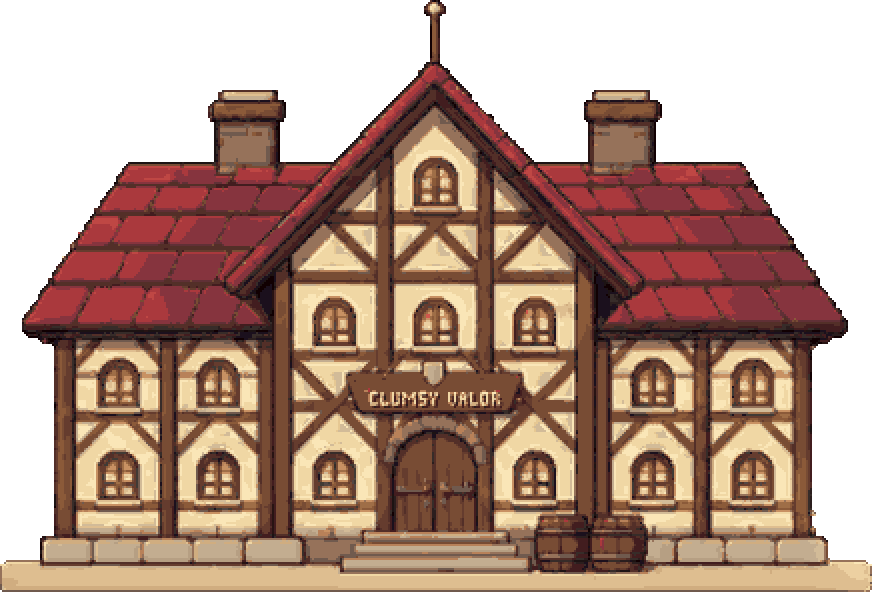
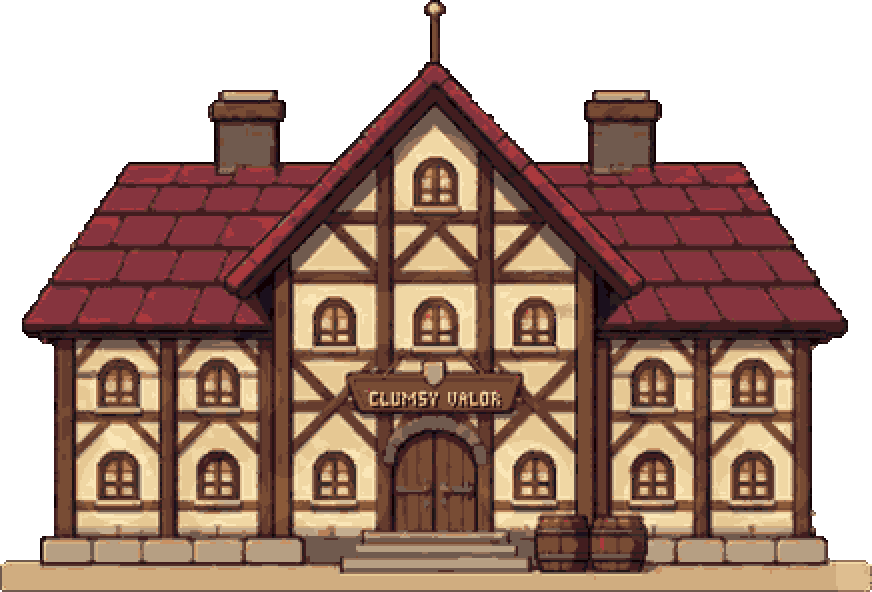
Preview: light from a hand-written solid form (hall proxy), one sun in front of the town
docs/work/town-art/LIGHT.md sets the rules; tools/light_proxy.py lights each plane as one mass (N.L), casts
eave/chimney/gable shadows through the proxy, moves colours only along their material ramp.

Claude-Session: https://claude.ai/code/session_01FzDataYedfiK9tzFLcKdoU

diff --git a/tools/light_proxy.py b/tools/light_proxy.py
@@ -1,0 +1,191 @@
+#!/usr/bin/env python3
+"""Light from structure (owner 2026-11-07: "빛 이론의 기본 구조는 큰 덩어리, 그리고 그 이후에 빛 영역에서의 세부 그림자
+표현"; the rules: docs/work/town-art/LIGHT.md). A building's solid form is written by hand (tools/proxy/<sprite>.json:
+its walls, roof planes, eaves, chimneys as planes with a depth), never guessed from the picture. Then, per look:
+  1. big masses: each plane's facing to the sun (N . L) gives the whole plane ONE light level
+  2. cast shadow: from each cell, a ray toward the sun through the proxy's depth; inside a solid on the way = shade
+     (eaves over walls, chimneys on the roof, the gable's body on the wings)
+  3. detail: the art's own small shading stays as drawn inside each mass (the whole mass moves together)
+  4. colour: the level moves each pixel along ITS material ramp (never "the nearest colour"): the ramps are cool and
+     greyer at the dark end and warm and richer at the light end (tools/town_palette2.py), so a step is a move in
+     value, hue, saturation and temperature together. Off-palette colours: none.
+Light levels (steps along the ramp, relative to the art as drawn, which is the noon look):
+  sunlit, facing the sun squarely (N.L > .55)  +1
+  sunlit, glancing                             0 (the evening's orange is the ambient's, lit.gd: not a second step)
+  shade, facing up (sees the sky)              -1
+  shade, facing front / down                   -2
+  night: -1 everywhere, then each lamp, fire, window: +1 / +2 / +3 by its light on the cell (facing it, unblocked,
+         falling off with distance)
+  python3 tools/light_proxy.py diagram g_hall OUT.png        the proxy over the sprite (planes by facing)
+  python3 tools/light_proxy.py bake g_hall [--preview OUT]   assets/town/lit/g_hall_{m,e,n}.png"""
+import json
+import os
+import sys
+import numpy as np
+from PIL import Image, ImageDraw
+
+ROOT = os.path.dirname(os.path.dirname(os.path.abspath(__file__)))
+PAL = np.array(Image.open(os.path.join(ROOT, "assets/town/palette.png")).convert("RGB"))
+PJ = json.load(open(os.path.join(ROOT, "assets/town/palette.json")))
+RAMPS = [PAL[i, :s] for i, s in enumerate(PJ["steps"])]
+INDEX = {}
+for ri, r in enumerate(RAMPS):
+    for si, c in enumerate(r): INDEX.setdefault(tuple(int(v) for v in c), (ri, si))
+
+
+def sun3(h):
+    """lit.gd sun3: toward the sun, x right, y up, z toward the viewer"""
+    day = np.clip((h % 24.0 - 5.5) / 13.5, 0.0, 1.0)
+    ang = day * np.pi
+    el = np.radians(16.0 + 46.0 * np.sin(ang))
+    hz = np.array([-np.cos(ang), 0.45 + 0.25 * np.sin(ang)]); hz /= np.linalg.norm(hz)
+    return np.array([hz[0] * np.cos(el), np.sin(el), hz[1] * np.cos(el)])
+
+
+def load_sprite(k):
+    p = os.path.join(ROOT, "assets/town/hx", k + ".png")
+    if not os.path.exists(p): p = os.path.join(ROOT, "assets/town", k + ".png")
+    a = np.array(Image.open(p).convert("RGBA"))
+    return a[0::2, 0::2].copy()
+
+
+def proxy_maps(k, shape):
+    """per cell: plane id, normal, depth z, thickness"""
+    P = json.load(open(os.path.join(ROOT, "tools/proxy", k + ".json")))
+    h, w = shape
+    pid = np.full((h, w), -1, int); N = np.zeros((h, w, 3)); Z = np.zeros((h, w)); T = np.zeros((h, w))
+    yy, xx = np.mgrid[0:h, 0:w]
+    for i, pl in enumerate(P["planes"]):
+        im = Image.new("L", (w, h), 0)
+        ImageDraw.Draw(im).polygon([tuple(p) for p in pl["poly"]], fill=255)
+        m = np.array(im) > 0
+        at = pl.get("at", [0, 0]); a = pl.get("dzdx", 0.0); b = pl.get("dzdy", 0.0)
+        z = pl["z"] + a * (xx - at[0]) + b * (yy - at[1])
+        n = np.array(pl["n"], float) if "n" in pl else np.array([-a, b, 1.0])
+        n /= np.linalg.norm(n)
+        pid[m] = i; N[m] = n; Z[m] = z[m]; T[m] = pl.get("thick", 10)
+    return P, pid, N, Z, T
+
+
+def in_sun(ys, xs, Z, T, solid, L, reach=160):
+    """march each cell's ray toward the sun through the proxy: it is in shade when it passes inside a solid"""
+    h, w = Z.shape
+    d = L / max(np.hypot(L[0], L[1]), 1e-6)            # per cell of screen travel
+    z0 = Z[ys, xs]
+    shade = np.zeros(len(ys), bool)
+    for t in range(2, reach):
+        X = np.round(xs + d[0] * t).astype(int); Y = np.round(ys - d[1] * t).astype(int)
+        ok = (X >= 0) & (X < w) & (Y >= 0) & (Y < h)
+        zr = z0 + d[2] * t
+        zs = np.full(len(ys), -1e9); th = np.zeros(len(ys)); s = np.zeros(len(ys), bool)
+        zs[ok] = Z[Y[ok], X[ok]]; th[ok] = T[Y[ok], X[ok]]; s[ok] = solid[Y[ok], X[ok]]
+        shade |= s & (zr < zs - 0.5) & (zr > zs - th)
+    return ~shade
+
+
+def levels_sun(N, Z, T, m, solid, h, evening):
+    L = sun3(h)
+    ys, xs = np.nonzero(m)
+    n = N[ys, xs]
+    ndl = n @ L
+    sun = (ndl > 0.05) & in_sun(ys, xs, Z, T, solid, L)
+    lv = np.zeros(len(ys), int)
+    lv[sun & (ndl > 0.55)] = 1
+    up = n[:, 1] > 0.45
+    lv[~sun & up] = -1
+    lv[~sun & ~up] = -2
+    out = np.zeros(m.shape, int); out[ys, xs] = lv
+    return out, sun, ys, xs, ndl
+
+
+def recolor(nat, m, lv, extra=None):
+    out = nat.copy()
+    ys, xs = np.nonzero(m)
+    miss = 0
+    for y, x in zip(ys, xs):
+        c = tuple(int(v) for v in nat[y, x, :3])
+        if c not in INDEX: miss += 1; continue
+        ri, si = INDEX[c]
+        s2 = int(np.clip(si + lv[y, x] + (0 if extra is None else extra[y, x]), 0, len(RAMPS[ri]) - 1))
+        out[y, x, :3] = RAMPS[ri][s2]
+    return out, miss
+
+
+def diagram(k, outp):
+    nat = load_sprite(k)
+    m = nat[..., 3] > 127
+    P, pid, N, Z, T = proxy_maps(k, m.shape)
+    col = np.zeros(m.shape + (3,))
+    col[:] = (N * 0.5 + 0.5)              # normal as colour: x red, y green, z blue
+    grey = nat[..., :3].mean(-1, keepdims=True) / 255.0
+    img = (0.35 * grey + 0.65 * col) * 255
+    img[~m] = (40, 46, 52)
+    big = Image.fromarray(img.astype(np.uint8)).resize((m.shape[1] * 3, m.shape[0] * 3), Image.NEAREST)
+    d = ImageDraw.Draw(big)
+    for pl in P["planes"]:
+        pts = [(p[0] * 3, p[1] * 3) for p in pl["poly"]]
+        d.line(pts + [pts[0]], fill=(255, 255, 255), width=1)
+    big.save(outp)
+
+
+def bake(k, preview=None, lights=None, box=None):
+    nat = load_sprite(k)
+    m = nat[..., 3] > 127
+    P, pid, N, Z, T = proxy_maps(k, m.shape)
+    solid = (pid >= 0) & m
+    out = {}
+    for tag, h in (("m", 8.0), ("e", 17.0)):
+        lv, _, _, _, _ = levels_sun(N, Z, T, m & (pid >= 0), solid, h, tag == "e")
+        img, miss = recolor(nat, m & (pid >= 0), lv)
+        out[tag] = img
+        print(k, tag, "off-palette cells kept as drawn:", miss)
+    if lights is not None and box is not None:
+        out["n"] = bake_night(nat, m, pid, N, Z, T, solid, lights, box)
+    for tag, img in out.items():
+        big = np.repeat(np.repeat(img, 2, 0), 2, 1)
+        Image.fromarray(big).save(os.path.join(ROOT, "assets/town/lit", f"{k}_{tag}.png"))
+    if preview:
+        row = [nat] + [out[t] for t in ("m", "e", "n") if t in out]
+        W = sum(r.shape[1] for r in row) + 8 * (len(row) - 1)
+        canvas = Image.new("RGBA", (W, nat.shape[0]), (60, 80, 90, 255))
+        x = 0
+        for r in row:
+            canvas.alpha_composite(Image.fromarray(r), (x, 0)); x += r.shape[1] + 8
+        canvas.resize((W * 2, nat.shape[0] * 2), Image.NEAREST).save(preview)
+
+
+def bake_night(nat, m, pid, N, Z, T, solid, lights, box):
+    """night: one step down everywhere (no sun), then every lamp, fire and window near it: + by its light on the cell"""
+    ys, xs = np.nonzero(m & (pid >= 0))
+    lv = np.full(m.shape, -1, int)
+    add = np.zeros(len(ys))
+    P3 = np.stack([xs.astype(float), -ys.astype(float), Z[ys, xs]], -1)
+    n = N[ys, xs]
+    for (kind, lx, ly, r, cr, cg, cb, la) in lights:
+        if kind == "soft": continue
+        cx = (lx - box[0]) / 2.0; cy = (ly - box[1]) / 2.0
+        reach = r * (0.9 if kind == "win" else 1.4) / 2.0
+        if cx < -reach or cy < -reach or cx > m.shape[1] + reach or cy > m.shape[0] + reach: continue
+        lz = 30.0 if kind in ("lamp", "fire", "bulb") else 18.0      # lamps stand in front of the walls
+        lp = np.array([cx, -cy, lz])
+        v = lp - P3; dist = np.linalg.norm(v, axis=-1); v /= np.maximum(dist[:, None], 1e-6)
+        face = np.clip((n * v).sum(-1), 0, 1)
+        if kind == "win": face = np.maximum(face, 0.6)               # a window lights its own frame and the wall round it
+        fall = np.clip(1.0 - dist / reach, 0, 1) ** 1.5
+        add += la * face * fall * (1.2 if kind == "win" else 1.6)
+    step = np.where(add > 1.1, 3, np.where(add > 0.55, 2, np.where(add > 0.18, 1, 0)))
+    lv[ys, xs] += step
+    img, miss = recolor(nat, m & (pid >= 0), lv)
+    return img
+
+
+if __name__ == "__main__":
+    cmd, k = sys.argv[1], sys.argv[2]
+    if cmd == "diagram": diagram(k, sys.argv[3])
+    elif cmd == "bake":
+        pv = sys.argv[sys.argv.index("--preview") + 1] if "--preview" in sys.argv else None
+        L = json.load(open(os.path.join(ROOT, "docs/work/town-art/light_layout.json")))
+        box = None
+        for b in L["bld"] + [L["hall"]]:
+            if b[0] == k: box = (b[1], b[2])
+        bake(k, pv, L["lights"], box)

diff --git a/docs/work/town-art/LIGHT.md b/docs/work/town-art/LIGHT.md
@@ -1,0 +1,50 @@
+# 마을 빛과 그림자 기준
+
+오너 지시(2026-11-07): "빛 이론의 기본 구조는 큰 덩어리, 그리고 그 이후에 빛 영역에서의 세부 그림자 표현이야. 빛과 그림자 이론과 각종 레퍼런스를 철저히 참고하여서, 시간과 해의 기울기, 주변 물건에 의한 그림자, 광원, 불이나 가로등 용광로등의 조명에 의한 것 등등등을 비단 명도 뿐 아니라 색채와 채도, 난색과 한색까지 고려하여 그려 넣을것."
+
+## 1. 해는 하나
+
+- 모든 빛 계산(구운 스프라이트, 실시간 그림자, 바닥, 캐릭터 림라이트)이 `lit.gd sun3(h)` 하나를 쓴다.
+- 해는 왼쪽에서 떠서 오른쪽으로 진다. 늘 화면 쪽(보는 사람 쪽)으로 조금 나와 있어서 건물 정면이 빛을 받는다.
+- 높이: 해 뜰 때와 질 때는 낮게(16°), 정오에는 높게(62°).
+
+## 2. 순서: 큰 덩어리 → 그림자 → 세부
+
+1. 큰 덩어리(면의 방향)
+   - 건물마다 입체 뼈대를 손으로 적는다: 벽, 지붕면, 처마, 굴뚝, 기단. 뼈대 파일은 `tools/proxy/<건물>.json`.
+   - 한 면은 한 덩어리다. 면이 해를 보는 각도(N·L)로 그 면 전체의 밝기 단계를 정한다.
+   - 면 안에서 칸마다 밝기를 바꾸지 않는다.
+2. 투영 그림자
+   - 처마·굴뚝·앞으로 나온 몸체가 해를 가리는 곳에만 진다.
+   - 뼈대의 깊이로 해 쪽을 향해 광선을 따라가며 가려지는지 판정한다.
+   - 그림자 경계는 2px 격자에서 딱 끊는다.
+3. 세부
+   - 빛 영역 안에서만 원래 그림의 작은 명암(창틀, 목재 홈, 기와 줄)을 살린다.
+   - 그림자 영역의 세부는 한 단계 눌러서 큰 덩어리를 깨지 않게 한다.
+
+## 3. 색: 명도만이 아니라 색상·채도·온도
+
+- 빛과 그림자 모두 같은 재질 램프 안에서 밝기 순서대로만 옮긴다. "가장 비슷한 색"으로 옮기는 것은 금지한다.
+  - 램프 자체가 어두운 쪽은 차갑게(파랑·보라 쪽), 밝은 쪽은 따뜻하게(노랑 쪽) 돌아가 있다. 그래서 단계를 옮기면 명도, 색상, 온도가 함께 움직인다.
+- 해가 드는 면: 따뜻하고 진하게. 해가 낮을수록(아침·저녁) 더 따뜻하다.
+- 그늘: 하늘빛만 받는다. 차갑고 채도가 낮다.
+  - 위를 향한 그늘(지붕)은 하늘을 더 많이 봐서 덜 어둡다.
+  - 아래를 향한 그늘(처마 밑)이 가장 어둡다.
+- 불·가로등·용광로·창문: 따뜻하고 진한 빛이다. 거리에 따라 줄고, 광원을 향한 면만 밝힌다. 밤에는 이 빛만 남는다.
+- 실시간 그림자도 검정을 곱하지 않는다. 맵 스프라이트는 램프 단계 이동으로, 캐릭터는 하늘색을 곱해서 표현한다.
+
+## 4. 검사
+
+- 팔레트 밖 색은 0개.
+- 빛 계산은 칸 하나에 한 번만 한다.
+- 같은 면은 같은 단계를 쓴다(큰 덩어리 유지).
+- 기존 건물·캐릭터 옆에 놓고 직접 비교한다. 자동 검사 통과가 그림 승인을 뜻하지는 않는다.
+
+## 레퍼런스
+
+- [MGD EP14 AI 아트 색 맞추는 법](https://www.youtube.com/watch?v=m3d_QXPKM4A): 재질 램프, 같은 램프 안에서 밝기 순서로 옮기기, 팔레트 밖 0개.
+- [MGD Dev Log 6 2D 아트 명암](https://www.youtube.com/watch?v=VN4Ci4a2Neg): 면 방향(노멀)으로 빛 계산. 칸당 한 번, 원래 색 안에서만 고르기.
+- [The Beauty of Moonfrost](https://medium.com/@moonfrost/the-beauty-of-moonfrost-ab8155f235f1): 입체 지형에 도트 셰이더를 써서 조명이 흐리지 않고 손으로 찍은 느낌이 나게 했다.
+- [Building shadows: A Lighting and Shading Tutorial](https://tips.clip-studio.com/en-us/articles/3002): 광원 먼저 정하기, 핵심 그림자 → 그림자 색 → 투영 그림자 → 하늘빛 → 직사광 순서. 따뜻한 해 아래 그림자는 차갑고 탁한 파랑.
+- [4 things we did to add light and depth to our pixel art game](https://itch.io/devlog/192949/4-things-we-did-to-add-light-and-depth-to-our-pixel-art-game.amp): 그려 넣은 명암, 림라이트, 광원 쿠키 그림자.
+- James Gurney, *Color and Light*: 빛 면과 그림자 면을 따로 묶는다. 그늘은 하늘빛을 받는다. 접촉 그림자(오클루전)가 가장 어둡다.

diff --git a/docs/work/town-art/MEMO.md b/docs/work/town-art/MEMO.md
@@ -46,3 +46,7 @@
   → 원인: 실시간 그림자(shade.gd)가 건물 실루엣을 검게 밀어 겹치고 발밑에서 잘라, 정면은 자기 그림자로 어둡고 앞 바닥은 그림자를 안 받음 + 구름 그림자 빈틈. 일부러 깐 빛 아님.
 - 2026-11-07: "ㅅㅂ 지금 건물 그림자 만드는 구조가 걍 스프라이트 검게 만들어서 덧붙이는 거임? 그러면 안되지, 좀 더 제대로 빛과 그림자 이론을 기반 삼아서 만들어봐. 문 프로스트 같은 비쥬얼 그래픽 좋은 조명 게임을 참고해보고. 무엇보다 이뻐야함."
   → 적용(미리보기, 확인 대기): 해 하나(lit.gd sun3), 그림자 = 물체색 x 하늘색 / 햇빛 = 물체색 x 따뜻한 햇빛, 자기 그림자 금지, 바닥 면 그림자(기둥 높이 / 해 높이), 2px 격자 경계.
+- 2026-11-07: "대체 왜 지붕에 그림자가 저렇게 지는지 이해를 할 수 없는데, 좀 더 이론과 구조가 선행되어야하지 않을까?"
+  → 원인: bake_light2가 그림에서 입체를 짐작(앞으로 기운 날개 지붕을 좌우 면으로 읽음, 짐작한 높이로 그림자).
+- 2026-11-07: "빛 이론의 기본 구조는 큰 덩어리, 그리고 그 이후에 빛 영역에서의 세부 그림자 표현이야. 빛과 그림자 이론과 각종 레퍼런스를 철저히 참고하여서, 시간과 해의 기울기, 주변 물건에 의한 그림자, 광원, 불이나 가로등 용광로등의 조명에 의한 것 등등등을 비단 명도 뿐 아니라 색채와 채도, 난색과 한색까지 고려하여 그려 넣을것."
+  → 적용(미리보기): 기준 문서 docs/work/town-art/LIGHT.md, 건물 뼈대 tools/proxy/<건물>.json(손으로 적음), tools/light_proxy.py(면 단위 N·L → 재질 램프 안 단계 이동, 뼈대 광선으로 투영 그림자, 밤 광원). 본관부터.
